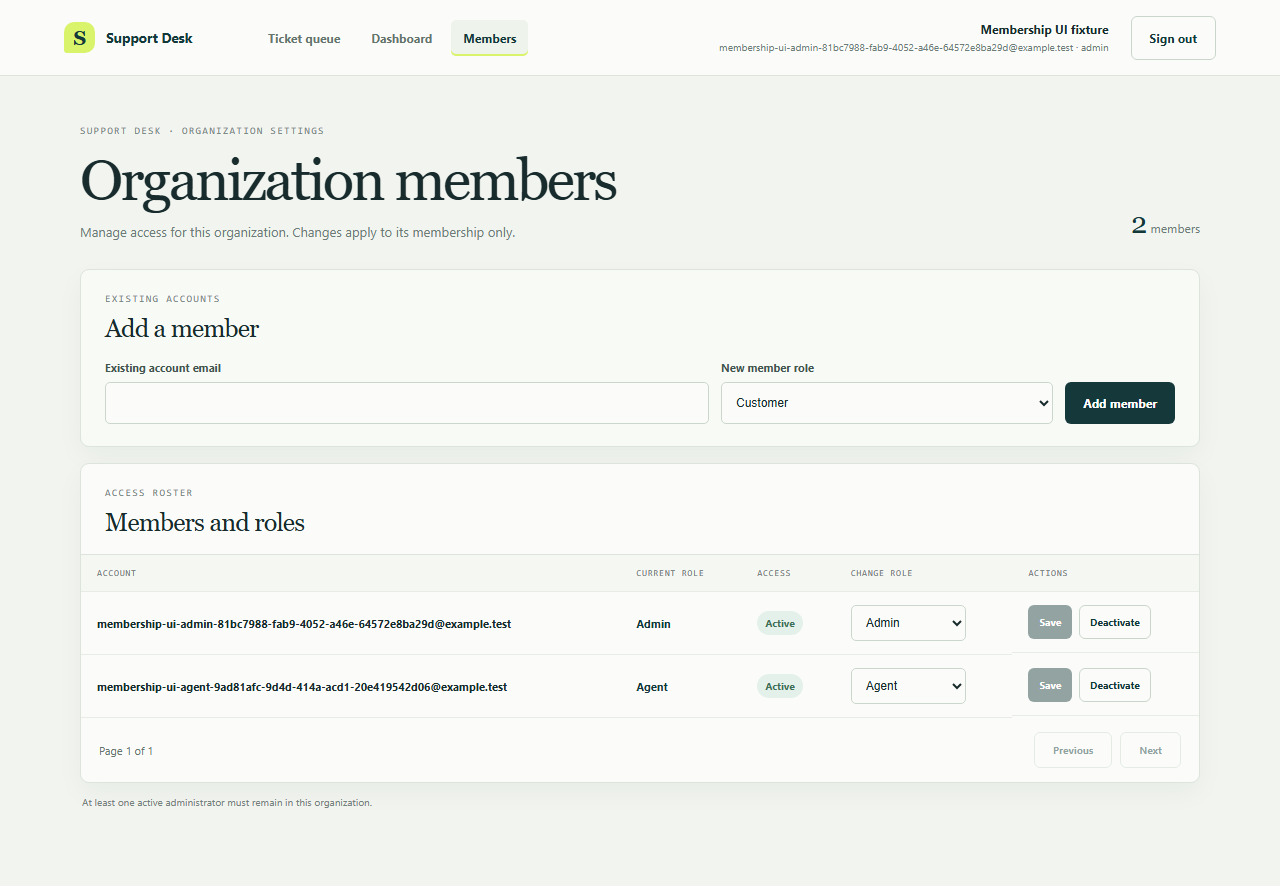
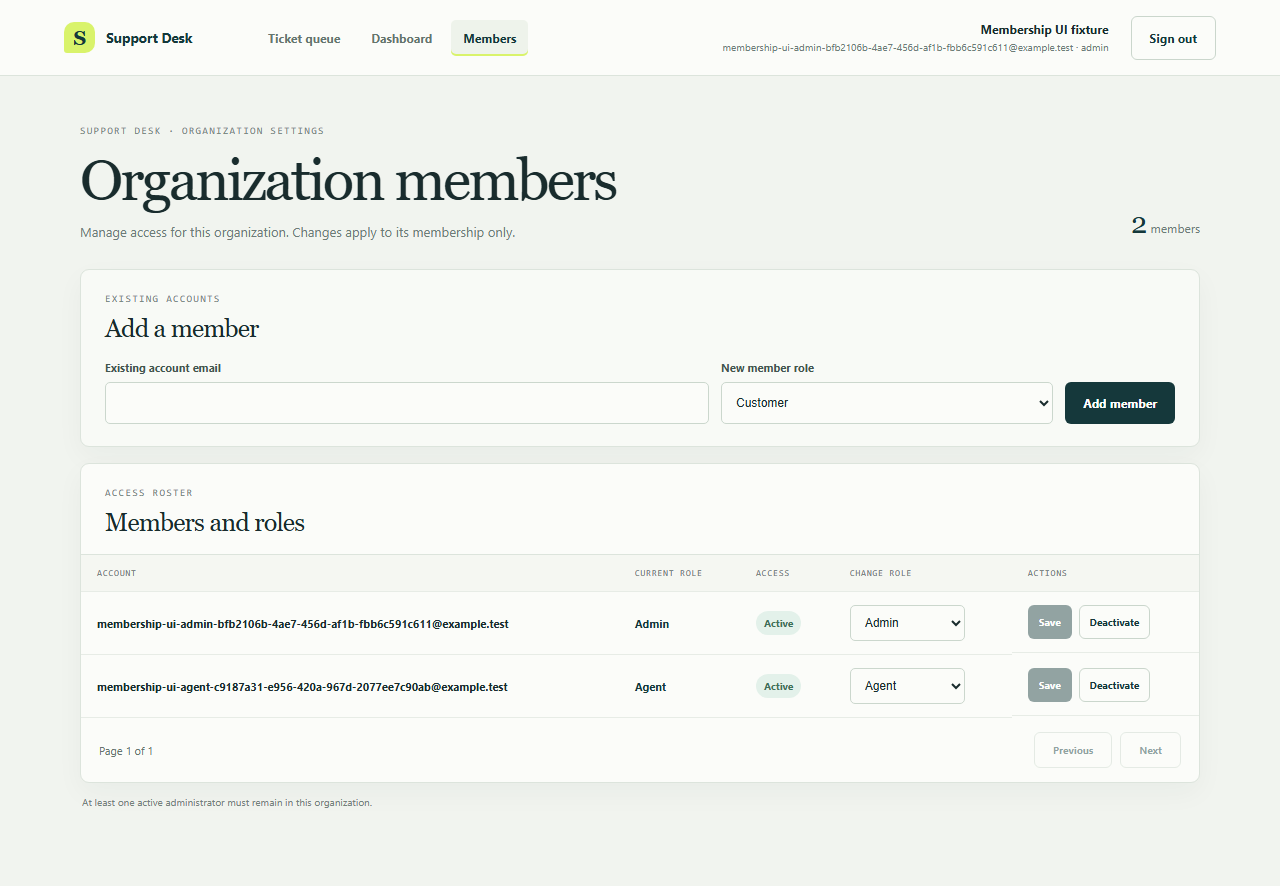
fix(web): make member roster responsive

diff --git a/web/src/features/memberships/MembershipsPage.tsx b/web/src/features/memberships/MembershipsPage.tsx
@@ -62,6 +62,48 @@ function MembershipRow({
   );
 }
 
+function MembershipCard({
+  member,
+  busy,
+  saveRole,
+  toggleActive,
+}: {
+  member: OrganizationMember;
+  busy: boolean;
+  saveRole: (member: OrganizationMember, role: MembershipRole) => void;
+  toggleActive: (member: OrganizationMember) => void;
+}) {
+  const [role, setRole] = useState(member.role);
+  const lastSavedRole = useRef(member.role);
+
+  useEffect(() => {
+    const previousSavedRole = lastSavedRole.current;
+    setRole((draftRole) => draftRole === previousSavedRole ? member.role : draftRole);
+    lastSavedRole.current = member.role;
+  }, [member.role]);
+
+  return (
+    <li className="member-card">
+      <div className="member-card-heading">
+        <strong>{member.email}</strong>
+        <span className={`member-status ${member.isActive ? 'member-status-active' : 'member-status-inactive'}`}>
+          {member.isActive ? 'Active' : 'Inactive'}
+        </span>
+      </div>
+      <p className="member-card-current-role">Current role: <span className="member-role">{roleLabel(member.role)}</span></p>
+      <label className="member-card-role-control">Change role <span className="visually-hidden">for {member.email}</span>
+        <select aria-label={`Role for ${member.email}`} value={role} disabled={busy} onChange={(event) => setRole(event.target.value as MembershipRole)}>
+          {roles.map((item) => <option key={item.value} value={item.value}>{item.label}</option>)}
+        </select>
+      </label>
+      <div className="member-card-actions">
+        <button className="button button-quiet member-save" type="button" aria-label={`Save ${member.email}`} disabled={busy || role === member.role} onClick={() => saveRole(member, role)}>Save</button>
+        <button className="button button-quiet member-toggle" type="button" aria-label={`${member.isActive ? 'Deactivate' : 'Reactivate'} ${member.email}`} disabled={busy} onClick={() => toggleActive(member)}>{member.isActive ? 'Deactivate' : 'Reactivate'}</button>
+      </div>
+    </li>
+  );
+}
+
 export function MembershipsPage({
   identity,
   organizationId,
@@ -168,7 +210,6 @@ export function MembershipsPage({
 
       <section className="members-panel" aria-labelledby="members-roster-title">
         <div className="members-panel-heading"><div><p className="eyebrow">ACCESS ROSTER</p><h2 id="members-roster-title">Members and roles</h2></div></div>
-        <p className="members-scroll-hint">Scroll horizontally to see roles, access, and actions <span aria-hidden="true">→</span></p>
         <div className="members-table-wrap">
           <table className="members-table">
             <thead><tr><th scope="col">Account</th><th scope="col">Current role</th><th scope="col">Access</th><th scope="col">Change role</th><th scope="col">Actions</th></tr></thead>
@@ -183,6 +224,17 @@ export function MembershipsPage({
             ))}</tbody>
           </table>
         </div>
+        <section className="members-mobile-roster" role="region" aria-label="Mobile member roster">
+          <ul className="members-mobile-list">{roster.data.items.map((member) => (
+            <MembershipCard
+              key={member.userId}
+              member={member}
+              busy={busy}
+              saveRole={(current, role) => { setMessage(''); update.mutate({ member: current, role }); }}
+              toggleActive={(current) => { setMessage(''); update.mutate({ member: current, isActive: !current.isActive }); }}
+            />
+          ))}</ul>
+        </section>
         {roster.data.items.length === 0 && <p className="members-empty" role="status">No members are on this page yet.</p>}
         <div className="members-pagination">
           <span>Page {roster.data.page} of {lastPage}</span>

diff --git a/web/tests/e2e/memberships.spec.ts b/web/tests/e2e/memberships.spec.ts
@@ -90,14 +90,42 @@ test('admin can add an existing account and update its organization role and act
   await expect(page.getByText('Scroll horizontally to see roles, access, and actions')).toBeHidden();
   await captureCheckpointScreenshot(page, '11-memberships-desktop.png');
   await page.setViewportSize({ width: 375, height: 812 });
-  await expect(page.getByText('Scroll horizontally to see roles, access, and actions')).toBeVisible();
+  await expect(page.getByText('Scroll horizontally to see roles, access, and actions')).toBeHidden();
   expect(await page.evaluate(() => document.documentElement.scrollWidth)).toBeLessThanOrEqual(375);
-  const membersTable = await page.locator('.members-table').evaluate((element) => ({
-    tableWidth: element.scrollWidth,
-    viewportWidth: element.parentElement!.clientWidth,
-  }));
-  expect(membersTable.tableWidth).toBeGreaterThan(membersTable.viewportWidth);
+  await expect(page.locator('.members-table-wrap')).toBeHidden();
+  const mobileRoster = page.getByRole('region', { name: 'Mobile member roster' });
+  await expect(mobileRoster).toBeVisible();
+  await expect(mobileRoster.getByRole('listitem')).toHaveCount(2);
+  await expect(mobileRoster.getByText(emails.admin, { exact: true })).toBeVisible();
+  await expect(mobileRoster.getByText(emails.agent, { exact: true })).toBeVisible();
+  await expect(mobileRoster.getByRole('button', { name: `Save ${emails.admin}` })).toBeDisabled();
+  for (const width of [320, 375, 768, 900, 901, 1024, 1440]) {
+    await page.setViewportSize({ width, height: 900 });
+    expect(await page.evaluate(() => document.documentElement.scrollWidth), `document width at ${width}px`).toBeLessThanOrEqual(width);
+    if (width <= 900) {
+      await expect(page.getByRole('region', { name: 'Mobile member roster' })).toBeVisible();
+      await expect(page.locator('.members-table-wrap')).toBeHidden();
+    } else {
+      await expect(page.getByRole('region', { name: 'Mobile member roster' })).toBeHidden();
+      await expect(page.locator('.members-table-wrap')).toBeVisible();
+    }
+  }
+  await page.setViewportSize({ width: 375, height: 812 });
   await captureCheckpointScreenshot(page, '12-memberships-mobile.png');
+  const agentCard = mobileRoster.getByRole('listitem').filter({ hasText: emails.agent });
+  await agentCard.getByLabel(`Role for ${emails.agent}`).selectOption('CUSTOMER');
+  await agentCard.getByRole('button', { name: `Save ${emails.agent}` }).click();
+  await expect(agentCard).toContainText('Current role: Customer');
+  await expect.poll(() => db.membership.findUniqueOrThrow({
+    where: { organizationId_userId: { organizationId, userId: agentId } },
+  })).toMatchObject({ role: 'CUSTOMER', isActive: true });
+  await agentCard.getByRole('button', { name: `Deactivate ${emails.agent}` }).click();
+  await expect(agentCard).toContainText('Inactive');
+  await agentCard.getByRole('button', { name: `Reactivate ${emails.agent}` }).click();
+  await expect(agentCard).toContainText('Active');
+  await agentCard.getByLabel(`Role for ${emails.agent}`).selectOption('AGENT');
+  await agentCard.getByRole('button', { name: `Save ${emails.agent}` }).click();
+  await expect(agentCard).toContainText('Current role: Agent');
   await page.setViewportSize({ width: 1280, height: 720 });
 
   await page.getByLabel('Existing account email').fill(emails.otherOrgUser);

diff --git a/web/src/features/memberships/memberships.css b/web/src/features/memberships/memberships.css
@@ -30,7 +30,7 @@
 .members-panel { overflow: hidden; padding: 0; }
 .members-panel-heading { padding: 22px 24px 18px; border-bottom: 1px solid var(--line); }
 .members-table-wrap { overflow-x: auto; }
-.members-scroll-hint { display: none; }
+.members-mobile-roster { display: none; }
 .members-table { width: 100%; min-width: 850px; border-collapse: collapse; text-align: left; }
 .members-table th,
 .members-table td { padding: 13px 16px; border-bottom: 1px solid #e7ece6; color: #56675f; font-size: 11px; }
@@ -59,12 +59,24 @@
 .membership-state > .button-quiet { text-decoration: none; }
 .visually-hidden { position: absolute; top: 0; left: 0; width: 1px; height: 1px; padding: 0; overflow: hidden; clip: rect(0, 0, 0, 0); white-space: nowrap; border: 0; }
 
-@media (max-width: 760px) {
+@media (max-width: 900px) {
+  .members-table-wrap { display: none; }
+  .members-mobile-roster { display: block; }
+  .members-mobile-list { display: grid; gap: 10px; margin: 0; padding: 14px; list-style: none; }
+  .member-card { min-width: 0; padding: 14px; border: 1px solid var(--line); border-radius: 7px; background: #fff; }
+  .member-card-heading { display: flex; align-items: flex-start; justify-content: space-between; gap: 10px; }
+  .member-card-heading strong { min-width: 0; overflow-wrap: anywhere; color: var(--ink); font-size: 12px; line-height: 1.5; }
+  .member-card-current-role { margin: 10px 0 14px; color: var(--muted); font-size: 11px; }
+  .member-card-role-control { display: grid; gap: 7px; color: #43554f; font-size: 11px; font-weight: 700; }
+  .member-card-role-control select { width: 100%; min-height: 42px; padding: 0 10px; border: 1px solid #cbd7cd; border-radius: 5px; background: #fff; color: var(--ink); }
+  .member-card-role-control select:focus { border-color: #557f6b; box-shadow: 0 0 0 3px rgb(85 127 107 / 13%); outline: none; }
+  .member-card-actions { display: flex; flex-wrap: wrap; gap: 8px; margin-top: 12px; }
+  .member-card-actions .button { min-height: 38px; }
   .members-page,
   .membership-state { width: min(100% - 32px, 1120px); padding-top: 36px; }
   .members-add-form { grid-template-columns: 1fr 1fr; }
   .members-add-form .button { justify-self: start; }
-  .members-scroll-hint { display: flex; align-items: center; justify-content: space-between; gap: 8px; margin: 0; padding: 10px 16px; background: #f5f7f2; color: #52645b; font-size: 11px; }
+
 }
 
 @media (max-width: 520px) {
